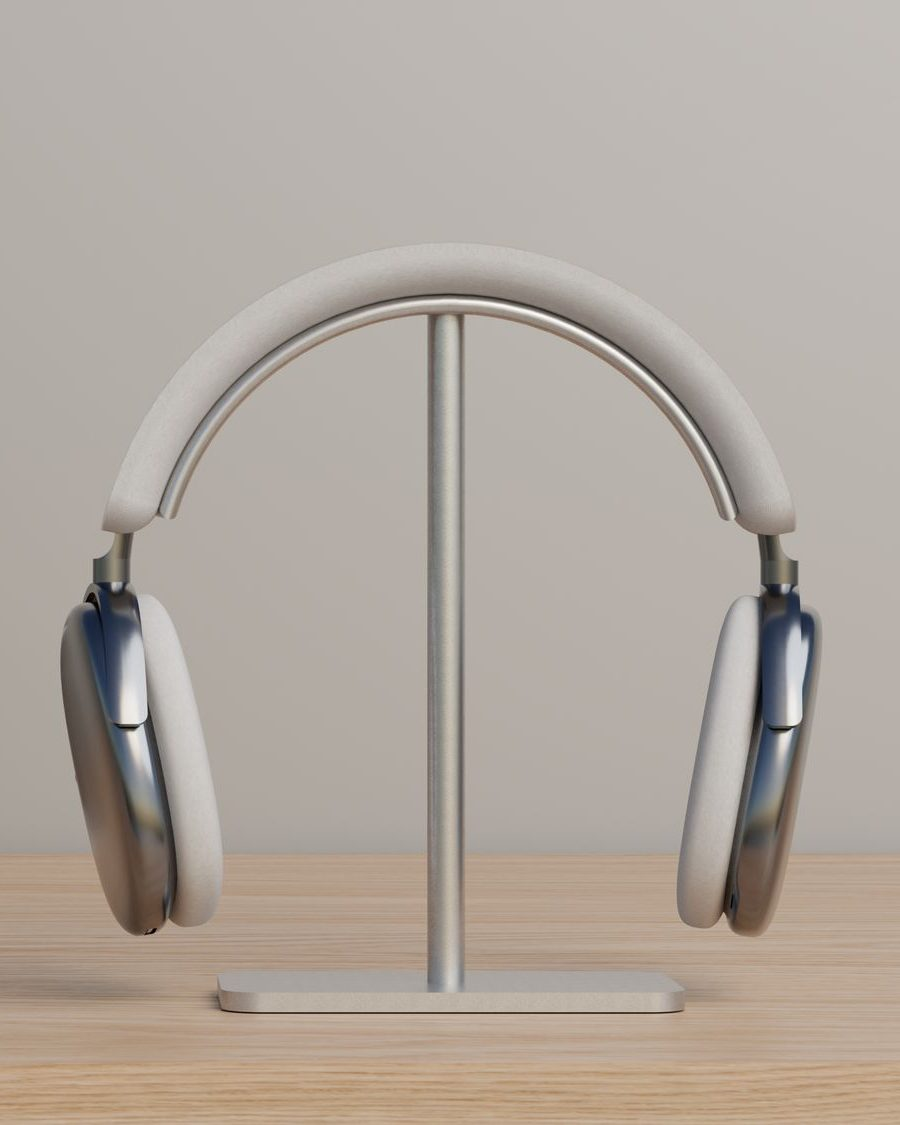
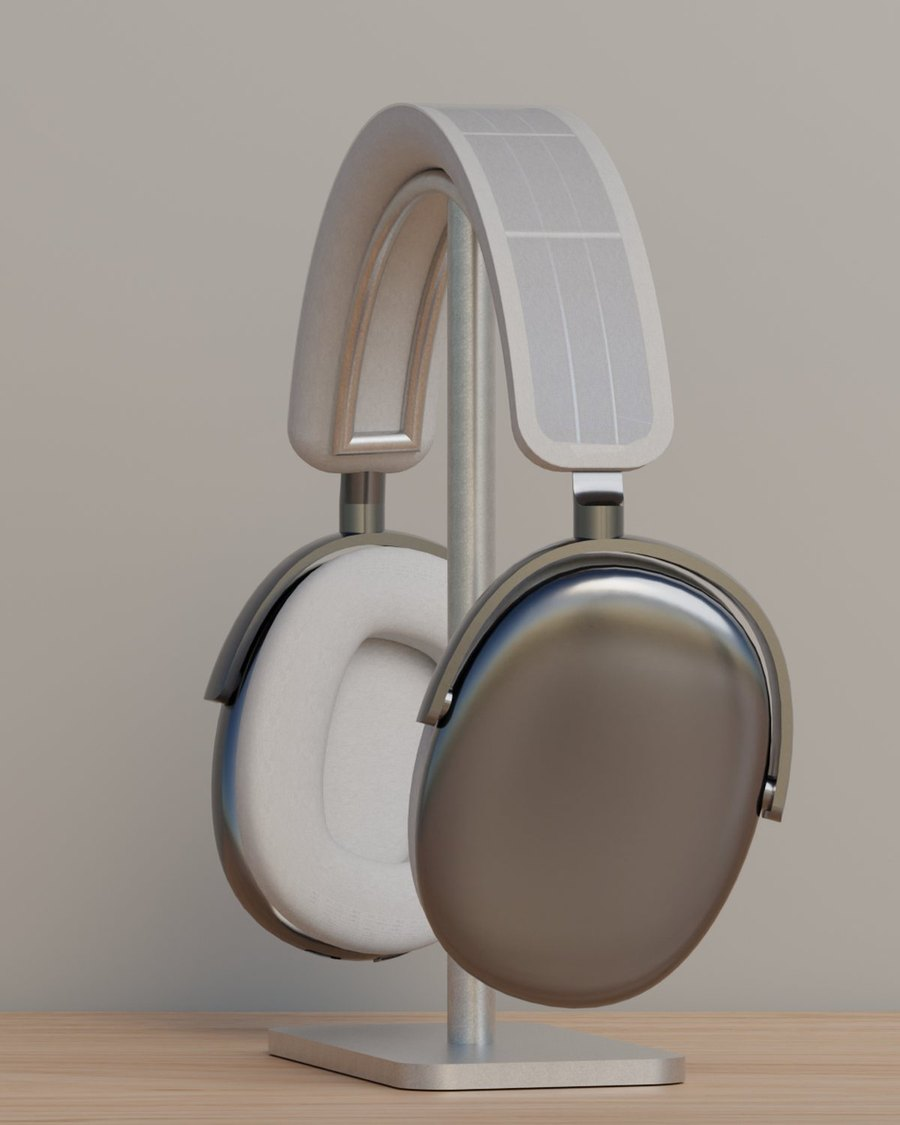
Work page: ORIS tile shows the angled view with the solar cell
Claude-Session: https://claude.ai/code/session_01Hcn1o19qZG1QMcFy8LNuMR

diff --git a/index.html b/index.html
@@ -47,7 +47,7 @@
         </div>
       </a>
       <a class="tile reveal" href="projects/oris.html">
-        <div class="tile-img"><img src="assets/img/card-oris.jpg" alt="ORIS headphones on an aluminium stand" loading="lazy"></div>
+        <div class="tile-img"><img src="assets/img/card-oris.jpg" alt="ORIS S3 headphones at an angle, showing the solar cell in the headband" loading="lazy"></div>
         <div class="tile-body">
           <div><div class="tile-title">ORIS <span class="arrow">→</span></div><div class="tile-sub">Audio family with solar-powered headphones</div></div>
           <div class="tile-tags">Consumer tech<br>2024</div>
